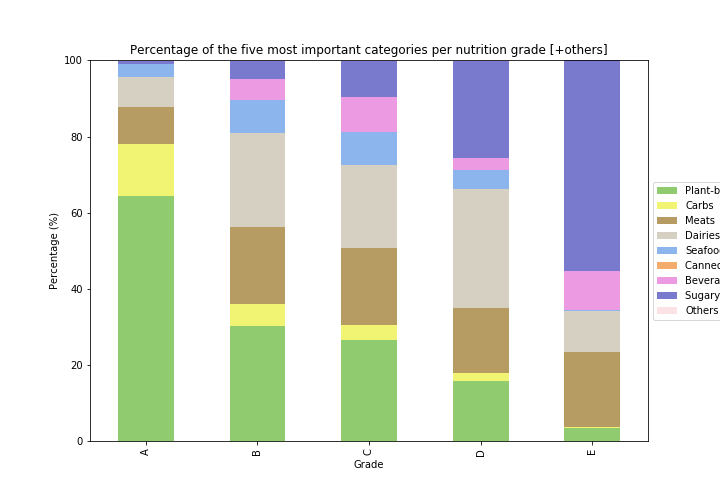
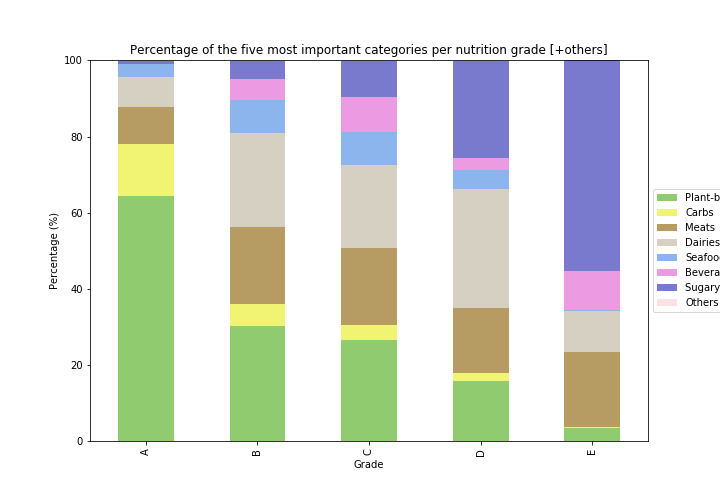
worked on tasked assign in drive

Changed region(s): [[0.8861, 0.3571, 1.0, 0.625]]

diff --git a/libs/visualising.py b/libs/visualising.py
@@ -3,7 +3,7 @@ import pandas as pd
 import matplotlib.pyplot as plt
 import matplotlib as mpl
 import seaborn as sns
-import folium
+#import folium
 import pylab
 
 from libs import exploring as explore
@@ -104,20 +104,30 @@ def plot_occurences_on_map(df, column_key, show_distances=False, title=''):
     worldmap = [ dict(
             type = 'choropleth',
             locations = values_count_pd['cca3'],
-            z = np.log(values_count_pd['Count']),
+            z = np.log10(values_count_pd['Count']),
             name = values_count_pd['Country'],
             autocolorscale = False,
             reversescale = True,
             colorbar = dict(
-                autotick = True,
-                title = 'Counts [log10]'),
-            colorscale='Viridis'
+                #lenmode='fraction', 
+                len=0.7,
+                #autotick = True,
+                tick0= 1,
+                tickmode= 'array',
+                tickvals= [0, 0.5, 1, 1.5, 2, 2.5, 3, 3.5, 4],
+                ticktext = ['1','10<sup>1/2</sup>','10<sup>1</sup>', '10<sup>3/2</sup>', '10<sup>2</sup>', '10<sup>5/2</sup>', '10<sup>3</sup>','10<sup>3/2</sup>', '10<sup>4</sup>'],
+                #ticks = 'outside',
+                title = 'Counts'),
+            colorscale='Viridis', 
+            text = values_count_pd['Country'] + ' '+ values_count_pd['Count'].astype(str),
+            hoverinfo= 'text'
           ) ]
 
     lines = []
     
     if show_distances:
         origin_latlng = countries.loc[countries['cca3'] == 'FRA']['latlng'].iloc[0]
+        maximum = float(np.log10(values_count_pd['Count']).max())   
         for i, row in values_count_pd.iterrows():
             try:
                 origin_latlng = countries.loc[countries['cca3'] == 'FRA']['latlng'].iloc[0]
@@ -127,12 +137,15 @@ def plot_occurences_on_map(df, column_key, show_distances=False, title=''):
                         type = 'scattergeo',
                         lon = [ country_latlng[1], origin_latlng[1] ],
                         lat = [ country_latlng[0], origin_latlng[0] ],
-                        mode = 'lines+marker',
-                        name = row['Country'],
+                        mode = 'lines+markers',
+                        name= '', 
+                        text = row['Country'] + ' '+ str(row['Count']),
+                        hoverinfo='text',
                         line = dict(
-                            width = np.log(row['Count'])*0.5,
-                            color = 'red',
+                            width = (np.log10(row['Count'])+0.1)*1.2,
+                            color = 'red'
                         ),
+                        opacity = float(np.log10(row['Count']))/maximum*1.2+0.1,
                     )
                 )
             except IndexError:
@@ -142,9 +155,8 @@ def plot_occurences_on_map(df, column_key, show_distances=False, title=''):
     if title == '':
         tile = column_key
                 
-    # Format map
+    # Format map 
     layout = dict(
-        title = title,
         geo = dict(
             projection = dict(
                 type = 'Mercator'
@@ -158,8 +170,14 @@ def plot_occurences_on_map(df, column_key, show_distances=False, title=''):
         ),
         showlegend=False,
         xaxis = dict(fixedrange = True),
-        yaxis = dict(fixedrange = True)
-
+        yaxis = dict(fixedrange = True),
+        margin=go.layout.Margin(
+            l=50,
+            r=100,
+            b=0,
+            t=0,
+            pad=4
+        )
     )
 
     fig = dict( data=worldmap + lines, layout=layout )
@@ -179,7 +197,7 @@ def plot_cluster_by_tags(df, plot2D_features = ["carbon-footprint_100g", "energy
         ],
         'layout': {
             'xaxis': {'title': 'Carbon footprint per 100g [g]'},
-            'yaxis': {'title': "Price per 100g [g]"},
+            'yaxis': {'title': "Price per 100g [€]"},
         }
     }
 
@@ -328,7 +346,6 @@ def plot_column_composition(df, column_str, num_values=5):
 
     # Format layout
     layout = go.Layout(
-                    title=column_str, 
                     showlegend=True, 
                     barmode="stack",
                     xaxis=dict(
@@ -341,7 +358,14 @@ def plot_column_composition(df, column_str, num_values=5):
                         zeroline=False,
                     ),
                     width=800,
-                    height=300,
+                    height=200,
+                    margin=go.layout.Margin(
+                        l=40,
+                        r=40,
+                        b=50,
+                        t=15,
+                        pad=4
+                    )
     )
             
 
@@ -407,9 +431,15 @@ def make_grade_stacked_bar(attempt, label_column, x_column, y_column):
 
      # Format layout
     layout = go.Layout(
-                    title=label_column, 
                     showlegend=True, 
                     barmode="stack",
+                    margin=go.layout.Margin(
+                        l=50,
+                        r=50,
+                        b=50,
+                        t=15,
+                        pad=4
+                    )
     )
     
     figure = go.Figure(data=traces, layout=layout)
@@ -444,7 +474,7 @@ def find_composition_list(df, column_str, cat_lis):
     
 def plot_grade_content(nutrition_over_time):
     index_list = ['B', 'C', 'D', 'E']
-    cat_list = ['Plant-based', 'Carbs', 'Meats', 'Dairies', 'Seafood', 'Canned foods', 'Beverages', 'Sugary snacks','Others']
+    cat_list = ['Plant-based', 'Carbs', 'Meats', 'Dairies', 'Seafood', 'Beverages', 'Sugary snacks','Others']
     categories = {"keys": cat_list}
     check = pd.DataFrame.from_dict(categories)
     
@@ -468,7 +498,7 @@ def make_content_stacked_bar(table, label_column, x_column, y_column):
 
     keys = table[label_column].drop_duplicates()
     margin_bottom = np.zeros(len(table[x_column].drop_duplicates()))
-    colors = ['#90CB70', '#F0F472', '#B69C63','#D6D0C3', '#8CB5ED', '#F3AC6D', '#EC9BE2', '#7979CD', '#FCE2E4']
+    colors = ['#90CB70', '#F0F472', '#B69C63','#D6D0C3', '#8CB5ED', '#EC9BE2', '#7979CD', '#FCE2E4']
     
     for num, grade in enumerate(keys):
         values = list(table[table[label_column] == grade].loc[:, y_column])
@@ -489,28 +519,24 @@ def make_content_stacked_bar(table, label_column, x_column, y_column):
 def palm_oil_overtime(df,df_absolute):   
     data = [go.Bar(x=df.index,
                y=df.values,
-                  #text=palm_oil_over_time,
-                   text = df_absolute,
-            marker=dict(color='#097B4E'))]
+               #text=palm_oil_over_time,
+               text = round(df, 2).astype(str) + '% <br>'+ df_absolute.astype(str),
+               hoverinfo = 'text',
+               marker=dict(color='#097B4E'))]
 
 
     layout = go.Layout(
-        title='Usage of palm oil over time',
-        xaxis=dict(
-            title='time (years)',
-            titlefont=dict(
-                family='Courier New, monospace',
-                size=18,
-                color='#7f7f7f'
-            )
-        ),
         yaxis=dict(
-            title='Percentage of products with palm oil',
-            titlefont=dict(
-                family='Courier New, monospace',
-                size=18,
-                color='#7f7f7f'))
-    )
+            title='Percentage of products with palm oil [%]'
+            ),
+        margin=go.layout.Margin(
+            l=50,
+            r=50,
+            b=50,
+            t=15,
+            pad=4
+            )
+        )
 
     fig = go.Figure(data=data, layout=layout)
 
